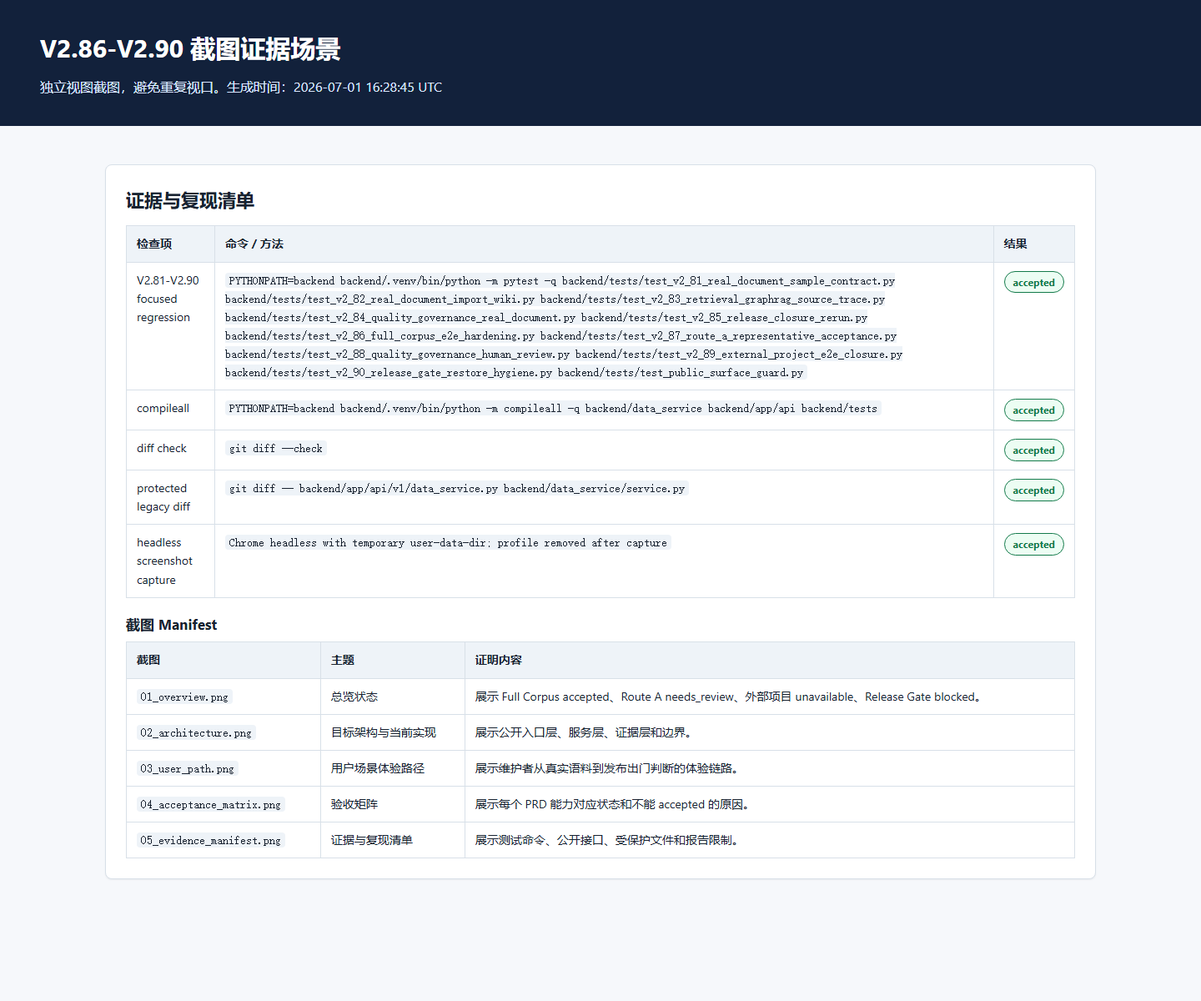
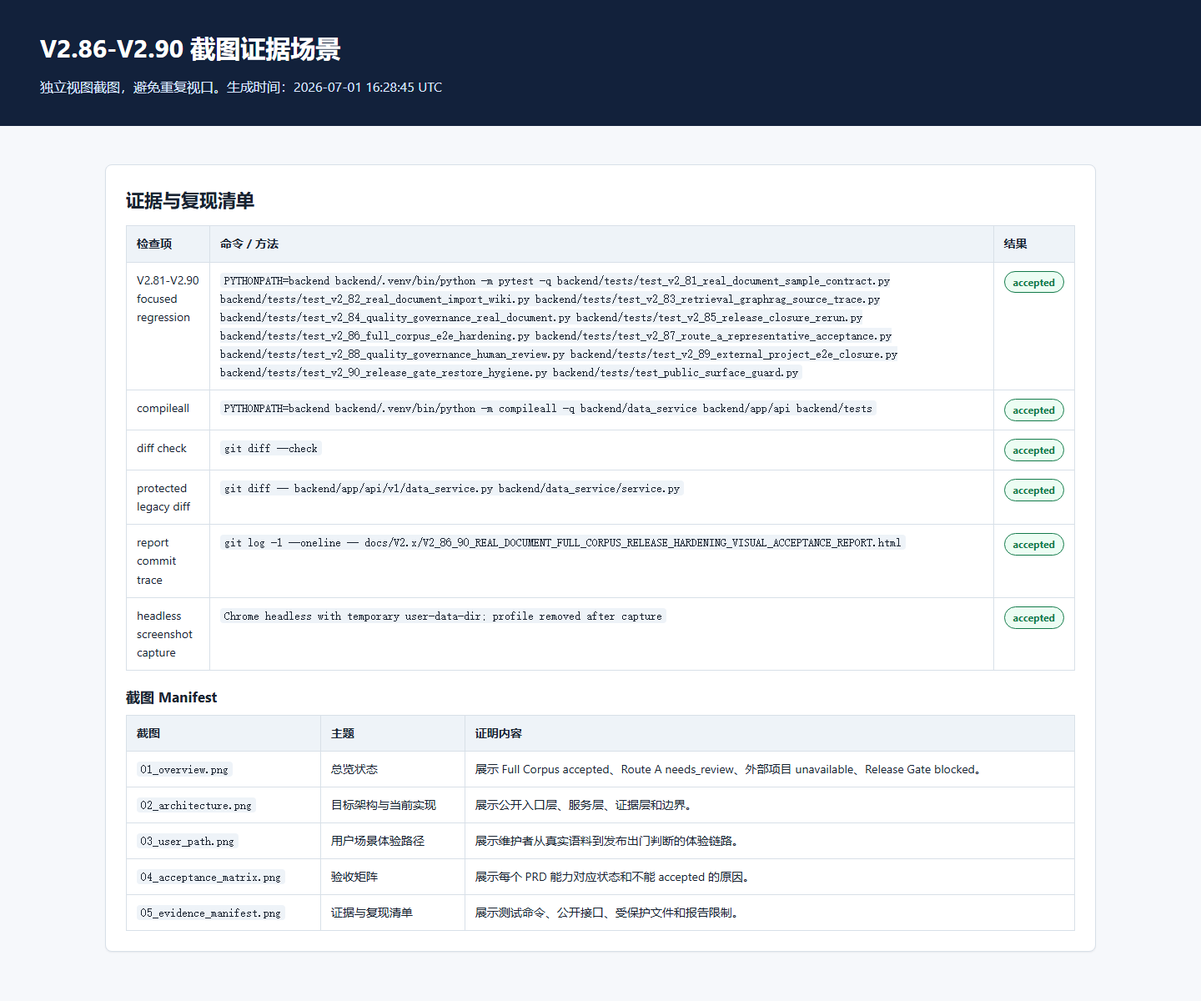
docs: make V2.86-V2.90 audit git evidence reproducible

diff --git a/docs/V2.x/V2_86_90_REAL_DOCUMENT_FULL_CORPUS_RELEASE_HARDENING_VISUAL_ACCEPTANCE_REPORT.html b/docs/V2.x/V2_86_90_REAL_DOCUMENT_FULL_CORPUS_RELEASE_HARDENING_VISUAL_ACCEPTANCE_REPORT.html
@@ -1,11 +1,11 @@
 <!doctype html><html lang="zh-CN"><head><meta charset="utf-8"><title>V2.86-V2.90 自动化开发审计报告</title><style>
 :root{--bg:#f6f8fb;--panel:#fff;--ink:#182230;--muted:#5f6f82;--line:#d8e0e8;--ok:#137a4a;--warn:#9b6a00;--blocked:#92370f;--bad:#b42318;--blue:#1e5bb8;--teal:#087b83;--purple:#6650a4;--shadow:0 1px 2px rgba(16,24,40,.06)}*{box-sizing:border-box}body{margin:0;background:var(--bg);color:var(--ink);font-family:-apple-system,BlinkMacSystemFont,"Segoe UI","Microsoft YaHei",Arial,sans-serif;line-height:1.58}header{background:#12213b;color:#fff;padding:34px 48px}header h1{margin:0;font-size:30px;letter-spacing:0}header p{margin:10px 0 0;color:#d9e6ff}.wrap{max-width:1240px;margin:0 auto;padding:26px}.section{background:var(--panel);border:1px solid var(--line);border-radius:8px;padding:24px;margin:20px 0;box-shadow:var(--shadow)}h2{font-size:22px;margin:0 0 14px}h3{font-size:17px;margin:18px 0 8px}.grid{display:grid;grid-template-columns:repeat(4,1fr);gap:14px}.card{border:1px solid var(--line);border-radius:8px;padding:16px;background:#fff}.metric{font-size:30px;font-weight:780}.okText{color:var(--ok)}.warnText{color:var(--warn)}.blockedText{color:var(--blocked)}.badge{display:inline-block;border:1px solid currentColor;border-radius:999px;padding:3px 10px;font-size:12px;font-weight:750}.ok{color:var(--ok);background:#ecfdf3}.warn{color:var(--warn);background:#fff8df}.blocked{color:var(--blocked);background:#fff1e8}.bad{color:var(--bad);background:#fef3f2}table{border-collapse:collapse;width:100%;font-size:14px}th,td{border:1px solid var(--line);padding:10px 12px;text-align:left;vertical-align:top}th{background:#eef3f8}.layers{display:grid;grid-template-columns:1fr 1fr 1fr;gap:14px}.layer{border:1px solid var(--line);border-left:6px solid var(--blue);border-radius:8px;padding:16px;background:#fbfdff}.layer:nth-child(2){border-left-color:var(--teal)}.layer:nth-child(3){border-left-color:var(--purple)}.flow{display:grid;grid-template-columns:repeat(5,1fr);gap:12px}.node{border:2px solid var(--line);border-radius:8px;padding:14px;min-height:122px;background:#fff}.node.done{border-color:var(--ok)}.node.pending{border-color:var(--warn)}.node.blocked{border-color:var(--blocked)}.screens{display:grid;grid-template-columns:repeat(2,1fr);gap:16px}.screens img{width:100%;border:1px solid var(--line);border-radius:8px;background:#fff}.note{background:#fff8e6;border:1px solid #f1ce75;border-radius:8px;padding:14px}.audit-pass{background:#eafaf1;border:1px solid #a6d7bb;border-radius:8px;padding:14px}.audit-fail{background:#fff1e8;border:1px solid #f5b28b;border-radius:8px;padding:14px}code{background:#eef3f8;border-radius:4px;padding:2px 5px}.small{font-size:13px;color:var(--muted)}ul{margin:8px 0 0;padding-left:20px}@media(max-width:920px){.grid,.layers,.flow,.screens{grid-template-columns:1fr}.wrap{padding:16px}header{padding:24px}}
 </style></head><body><header><h1>V2.86-V2.90 自动化开发审计报告</h1><p>修复版：用于人类完整复核本阶段自动化开发、阶段验收、真实 E2E、可视化证据和 false-green 风险。生成时间：2026-07-01 16:28:45 UTC</p></header><main class="wrap">
-<section class="section"><h2>1. 审计总判定</h2><div class="audit-pass"><strong>自动化开发范围：通过。</strong> V2.86-V2.90 被文档完整支撑的代码实现、公开接口、focused tests、真实仓库 E2E 和可视化证据已完成。</div><p class="note"><strong>Final release：未通过出门验收。</strong> Route A 用户代表性资料、人工质量审查、外部项目路径、human approval、restore/dependency hygiene 仍缺真实证据，不能写成 accepted。</p><div class="grid"><div class="card"><h3>Commit</h3><div class="metric">ce1bd6c</div><p>https://github.com/ljx418/data_service.git</p></div><div class="card"><h3>Full Corpus</h3><div class="metric okText">879</div><p>docs/V2.x real rows, parser failures 0</p></div><div class="card"><h3>Release Gate</h3><div class="metric blockedText">structured_unavailable</div><p>阻断项保留。</p></div><div class="card"><h3>False-green</h3><div class="metric okText">PASS</div><p>未将 needs_review / unavailable 写成 accepted。</p></div></div></section>
+<section class="section"><h2>1. 审计总判定</h2><div class="audit-pass"><strong>自动化开发范围：通过。</strong> V2.86-V2.90 被文档完整支撑的代码实现、公开接口、focused tests、真实仓库 E2E 和可视化证据已完成。</div><p class="note"><strong>Final release：未通过出门验收。</strong> Route A 用户代表性资料、人工质量审查、外部项目路径、human approval、restore/dependency hygiene 仍缺真实证据，不能写成 accepted。</p><div class="grid"><div class="card"><h3>Git 证据</h3><div class="metric">origin/main</div><p>远端：<code>https://github.com/ljx418/data_service.git</code><br>复核命令：<code>git log -1 --oneline -- docs/V2.x/V2_86_90_REAL_DOCUMENT_FULL_CORPUS_RELEASE_HARDENING_VISUAL_ACCEPTANCE_REPORT.html</code></p></div><div class="card"><h3>Full Corpus</h3><div class="metric okText">879</div><p>docs/V2.x real rows, parser failures 0</p></div><div class="card"><h3>Release Gate</h3><div class="metric blockedText">structured_unavailable</div><p>阻断项保留。</p></div><div class="card"><h3>False-green</h3><div class="metric okText">PASS</div><p>未将 needs_review / unavailable 写成 accepted。</p></div></div></section>
 <section class="section"><h2>2. 原始 PRD 覆盖与功能验收</h2><p>审计依据：<code>V2_86_90_REAL_DOCUMENT_FULL_CORPUS_RELEASE_HARDENING_PRD.md</code> 与目标架构文档。以下矩阵逐项说明实现状态和不能 accepted 的真实原因。</p><table><thead><tr><th>PRD 能力</th><th>当前状态</th><th>证据 / 限制</th></tr></thead><tbody><tr><td>V2.86 Full Corpus E2E Hardening</td><td><span class="badge ok">accepted</span></td><td>真实 docs/V2.x processed_count=879，parser_failures=0</td></tr><tr><td>V2.87 Route A Representative Material Acceptance</td><td><span class="badge warn">needs_review</span></td><td>缺用户代表性真实资料和人工验收证据；按 PRD 保持 needs_review</td></tr><tr><td>V2.88 Quality Governance Human Review Closure</td><td><span class="badge warn">needs_review</span></td><td>缺真实人工 quality decisions；自动建议不能替代人工审查</td></tr><tr><td>V2.89 External Project E2E Closure</td><td><span class="badge blocked">structured_unavailable</span></td><td>data_service accepted；codexPat/HarnessOS/Navia 缺路径，structured_unavailable</td></tr><tr><td>V2.90 Release Gate and Restore Hygiene</td><td><span class="badge blocked">structured_unavailable</span></td><td>Route A、quality review、external project、human approval、restore/dependency hygiene 未全部 accepted</td></tr></tbody></table></section>
 <section class="section"><h2>3. 目标架构与当前实现</h2><div class="layers"><div class="layer"><h3>公开入口层</h3><ul><li>MCP build/read：10 个工具，全部有 schema。</li><li>HTTP build/read：10 个 route 已注册。</li><li>CLI：<code>real-document-full-corpus-release</code> 已进入 parser inventory。</li></ul></div><div class="layer"><h3>服务实现层</h3><ul><li>Full Corpus E2E Runner</li><li>Route A Acceptance Pack</li><li>Quality Review Recorder</li><li>External Project Closure</li><li>Release Gate Aggregator</li></ul></div><div class="layer"><h3>证据与边界</h3><ul><li>使用 repo-relative refs 和 artifact refs。</li><li>保留 needs_review / structured_unavailable。</li><li>不声明 full call graph、runtime topology、data/control flow、type inference 或完整设计意图恢复。</li></ul></div></div><h3>代码实体审计</h3><table><thead><tr><th>目标实体</th><th>实现落点</th><th>状态</th></tr></thead><tbody><tr><td>Full Corpus E2E Runner</td><td><code>backend/data_service/code_assets/real_document_full_corpus_release/full_corpus.py</code></td><td><span class="badge ok">accepted</span></td></tr><tr><td>Route A Acceptance Pack</td><td><code>backend/data_service/code_assets/real_document_full_corpus_release/route_a_acceptance.py</code></td><td><span class="badge warn">needs_review</span></td></tr><tr><td>Quality Review Recorder</td><td><code>backend/data_service/code_assets/real_document_full_corpus_release/quality_review.py</code></td><td><span class="badge warn">needs_review</span></td></tr><tr><td>External Project Closure</td><td><code>backend/data_service/code_assets/real_document_full_corpus_release/external_project_closure.py</code></td><td><span class="badge blocked">structured_unavailable</span></td></tr><tr><td>Release Gate Aggregator</td><td><code>backend/data_service/code_assets/real_document_full_corpus_release/release_gate.py</code></td><td><span class="badge blocked">structured_unavailable</span></td></tr></tbody></table></section>
 <section class="section"><h2>4. 公开接口审计</h2><h3>MCP tools</h3><table><thead><tr><th>工具</th><th>schema</th></tr></thead><tbody><tr><td><code>knowledge_code_real_document_full_corpus_release_external_project_build</code></td><td>schema registered</td></tr><tr><td><code>knowledge_code_real_document_full_corpus_release_external_project_read</code></td><td>schema registered</td></tr><tr><td><code>knowledge_code_real_document_full_corpus_release_full_corpus_build</code></td><td>schema registered</td></tr><tr><td><code>knowledge_code_real_document_full_corpus_release_full_corpus_read</code></td><td>schema registered</td></tr><tr><td><code>knowledge_code_real_document_full_corpus_release_quality_review_build</code></td><td>schema registered</td></tr><tr><td><code>knowledge_code_real_document_full_corpus_release_quality_review_read</code></td><td>schema registered</td></tr><tr><td><code>knowledge_code_real_document_full_corpus_release_release_gate_build</code></td><td>schema registered</td></tr><tr><td><code>knowledge_code_real_document_full_corpus_release_release_gate_read</code></td><td>schema registered</td></tr><tr><td><code>knowledge_code_real_document_full_corpus_release_route_a_build</code></td><td>schema registered</td></tr><tr><td><code>knowledge_code_real_document_full_corpus_release_route_a_read</code></td><td>schema registered</td></tr></tbody></table><h3>HTTP routes</h3><table><thead><tr><th>方法</th><th>路径</th></tr></thead><tbody><tr><td>GET</td><td><code>/api/workspaces/{workspace_id}/codebases/{codebase_id}/real-document-full-corpus-release/external-project</code></td></tr><tr><td>GET</td><td><code>/api/workspaces/{workspace_id}/codebases/{codebase_id}/real-document-full-corpus-release/full-corpus</code></td></tr><tr><td>GET</td><td><code>/api/workspaces/{workspace_id}/codebases/{codebase_id}/real-document-full-corpus-release/quality-review</code></td></tr><tr><td>GET</td><td><code>/api/workspaces/{workspace_id}/codebases/{codebase_id}/real-document-full-corpus-release/release-gate</code></td></tr><tr><td>GET</td><td><code>/api/workspaces/{workspace_id}/codebases/{codebase_id}/real-document-full-corpus-release/route-a</code></td></tr><tr><td>POST</td><td><code>/api/workspaces/{workspace_id}/codebases/{codebase_id}/real-document-full-corpus-release/external-project/build</code></td></tr><tr><td>POST</td><td><code>/api/workspaces/{workspace_id}/codebases/{codebase_id}/real-document-full-corpus-release/full-corpus/build</code></td></tr><tr><td>POST</td><td><code>/api/workspaces/{workspace_id}/codebases/{codebase_id}/real-document-full-corpus-release/quality-review/build</code></td></tr><tr><td>POST</td><td><code>/api/workspaces/{workspace_id}/codebases/{codebase_id}/real-document-full-corpus-release/release-gate/build</code></td></tr><tr><td>POST</td><td><code>/api/workspaces/{workspace_id}/codebases/{codebase_id}/real-document-full-corpus-release/route-a/build</code></td></tr></tbody></table></section>
-<section class="section"><h2>5. 自动化命令与复现证据</h2><table><thead><tr><th>检查项</th><th>命令 / 方法</th><th>结果</th></tr></thead><tbody><tr><td>V2.81-V2.90 focused regression</td><td><code>PYTHONPATH=backend backend/.venv/bin/python -m pytest -q backend/tests/test_v2_81_real_document_sample_contract.py backend/tests/test_v2_82_real_document_import_wiki.py backend/tests/test_v2_83_retrieval_graphrag_source_trace.py backend/tests/test_v2_84_quality_governance_real_document.py backend/tests/test_v2_85_release_closure_rerun.py backend/tests/test_v2_86_full_corpus_e2e_hardening.py backend/tests/test_v2_87_route_a_representative_acceptance.py backend/tests/test_v2_88_quality_governance_human_review.py backend/tests/test_v2_89_external_project_e2e_closure.py backend/tests/test_v2_90_release_gate_restore_hygiene.py backend/tests/test_public_surface_guard.py</code></td><td><span class="badge ok">accepted</span></td></tr><tr><td>compileall</td><td><code>PYTHONPATH=backend backend/.venv/bin/python -m compileall -q backend/data_service backend/app/api backend/tests</code></td><td><span class="badge ok">accepted</span></td></tr><tr><td>diff check</td><td><code>git diff --check</code></td><td><span class="badge ok">accepted</span></td></tr><tr><td>protected legacy diff</td><td><code>git diff -- backend/app/api/v1/data_service.py backend/data_service/service.py</code></td><td><span class="badge ok">accepted</span></td></tr><tr><td>headless screenshot capture</td><td><code>Chrome headless with temporary user-data-dir; profile removed after capture</code></td><td><span class="badge ok">accepted</span></td></tr></tbody></table><p class="small">受保护 legacy 文件 <code>backend/app/api/v1/data_service.py</code> 与 <code>backend/data_service/service.py</code> 无 diff。</p></section>
+<section class="section"><h2>5. 自动化命令与复现证据</h2><table><thead><tr><th>检查项</th><th>命令 / 方法</th><th>结果</th></tr></thead><tbody><tr><td>V2.81-V2.90 focused regression</td><td><code>PYTHONPATH=backend backend/.venv/bin/python -m pytest -q backend/tests/test_v2_81_real_document_sample_contract.py backend/tests/test_v2_82_real_document_import_wiki.py backend/tests/test_v2_83_retrieval_graphrag_source_trace.py backend/tests/test_v2_84_quality_governance_real_document.py backend/tests/test_v2_85_release_closure_rerun.py backend/tests/test_v2_86_full_corpus_e2e_hardening.py backend/tests/test_v2_87_route_a_representative_acceptance.py backend/tests/test_v2_88_quality_governance_human_review.py backend/tests/test_v2_89_external_project_e2e_closure.py backend/tests/test_v2_90_release_gate_restore_hygiene.py backend/tests/test_public_surface_guard.py</code></td><td><span class="badge ok">accepted</span></td></tr><tr><td>compileall</td><td><code>PYTHONPATH=backend backend/.venv/bin/python -m compileall -q backend/data_service backend/app/api backend/tests</code></td><td><span class="badge ok">accepted</span></td></tr><tr><td>diff check</td><td><code>git diff --check</code></td><td><span class="badge ok">accepted</span></td></tr><tr><td>protected legacy diff</td><td><code>git diff -- backend/app/api/v1/data_service.py backend/data_service/service.py</code></td><td><span class="badge ok">accepted</span></td></tr><tr><td>report commit trace</td><td><code>git log -1 --oneline -- docs/V2.x/V2_86_90_REAL_DOCUMENT_FULL_CORPUS_RELEASE_HARDENING_VISUAL_ACCEPTANCE_REPORT.html</code></td><td><span class="badge ok">accepted</span></td></tr><tr><td>headless screenshot capture</td><td><code>Chrome headless with temporary user-data-dir; profile removed after capture</code></td><td><span class="badge ok">accepted</span></td></tr></tbody></table><p class="small">受保护 legacy 文件 <code>backend/app/api/v1/data_service.py</code> 与 <code>backend/data_service/service.py</code> 无 diff。</p></section>
 <section class="section"><h2>6. 外部项目与 Release Gate 阻断项</h2><h3>外部项目</h3><table><thead><tr><th>项目</th><th>状态</th><th>执行</th></tr></thead><tbody><tr><td>data_service</td><td><span class="badge ok">accepted</span></td><td>focused real E2E smoke</td></tr><tr><td>codexPat</td><td><span class="badge blocked">structured_unavailable</span></td><td>not-run</td></tr><tr><td>HarnessOS</td><td><span class="badge blocked">structured_unavailable</span></td><td>not-run</td></tr><tr><td>Navia</td><td><span class="badge blocked">structured_unavailable</span></td><td>not-run</td></tr></tbody></table><h3>Release Gate</h3><table><thead><tr><th>检查项</th><th>状态</th><th>阻断原因</th></tr></thead><tbody><tr><td>route_a</td><td><span class="badge warn">needs_review</span></td><td>Route A user representative real materials or manual acceptance evidence are not complete</td></tr><tr><td>route_b</td><td><span class="badge ok">accepted</span></td><td>证据完整或无阻断</td></tr><tr><td>full_corpus</td><td><span class="badge ok">accepted</span></td><td>证据完整或无阻断</td></tr><tr><td>quality_review</td><td><span class="badge warn">needs_review</span></td><td>human decision is required for quality recommendation; human decision is required for quality recommendation</td></tr><tr><td>external_project</td><td><span class="badge blocked">structured_unavailable</span></td><td>codexPat real readable path is not provided; HarnessOS real readable path is not provided; Navia real readable path is not provided</td></tr><tr><td>human_approval</td><td><span class="badge warn">needs_review</span></td><td>human_approval is not accepted</td></tr><tr><td>restore_smoke</td><td><span class="badge warn">needs_review</span></td><td>restore_smoke is not accepted</td></tr><tr><td>dependency_hygiene</td><td><span class="badge warn">needs_review</span></td><td>dependency_hygiene is not accepted</td></tr></tbody></table></section>
 <section class="section"><h2>7. 文档一致性与修复说明</h2><ul><li>本报告修复了旧报告可审计性不足的问题：加入 PRD 覆盖、代码实体、公开接口、命令复现、阻断项和截图 manifest。</li><li>本轮真实 E2E 重新执行后 full corpus 数量为 <strong>879</strong>，当前报告以本轮重新验收结果为准，避免沿用早期运行值。</li><li>V2.89 payload 字段经真实检查为 <code>project_e2e_records.records</code>，报告不再使用错误字段名。</li><li>所有 non-accepted 状态在报告和 release gate 中保留，未美化为 accepted。</li><li>文档描述 / documentation claim 不当作 code fact；报告不声明 full call graph、runtime topology、data/control flow、type inference 或完整设计意图恢复。</li></ul></section>
 <section class="section"><h2>8. 截图证据 Manifest</h2><table><thead><tr><th>截图</th><th>主题</th><th>证明内容</th></tr></thead><tbody><tr><td><code>01_overview.png</code></td><td>总览状态</td><td>展示 Full Corpus accepted、Route A needs_review、外部项目 unavailable、Release Gate blocked。</td></tr><tr><td><code>02_architecture.png</code></td><td>目标架构与当前实现</td><td>展示公开入口层、服务层、证据层和边界。</td></tr><tr><td><code>03_user_path.png</code></td><td>用户场景体验路径</td><td>展示维护者从真实语料到发布出门判断的体验链路。</td></tr><tr><td><code>04_acceptance_matrix.png</code></td><td>验收矩阵</td><td>展示每个 PRD 能力对应状态和不能 accepted 的原因。</td></tr><tr><td><code>05_evidence_manifest.png</code></td><td>证据与复现清单</td><td>展示测试命令、公开接口、受保护文件和报告限制。</td></tr></tbody></table><div class="screens"><figure><img src="visual_acceptance_assets/v2_86_90/01_overview.png"><figcaption>总览状态 - 展示 Full Corpus accepted、Route A needs_review、外部项目 unavailable、Release Gate blocked。</figcaption></figure><figure><img src="visual_acceptance_assets/v2_86_90/02_architecture.png"><figcaption>目标架构与当前实现 - 展示公开入口层、服务层、证据层和边界。</figcaption></figure><figure><img src="visual_acceptance_assets/v2_86_90/03_user_path.png"><figcaption>用户场景体验路径 - 展示维护者从真实语料到发布出门判断的体验链路。</figcaption></figure><figure><img src="visual_acceptance_assets/v2_86_90/04_acceptance_matrix.png"><figcaption>验收矩阵 - 展示每个 PRD 能力对应状态和不能 accepted 的原因。</figcaption></figure><figure><img src="visual_acceptance_assets/v2_86_90/05_evidence_manifest.png"><figcaption>证据与复现清单 - 展示测试命令、公开接口、受保护文件和报告限制。</figcaption></figure></div></section>

diff --git a/docs/V2.x/visual_acceptance_assets/v2_86_90/scenario_capture.html b/docs/V2.x/visual_acceptance_assets/v2_86_90/scenario_capture.html
@@ -1,3 +1,3 @@
 <!doctype html><html lang="zh-CN"><head><meta charset="utf-8"><title>V2.86-V2.90 截图场景</title><style>
 :root{--bg:#f6f8fb;--panel:#fff;--ink:#182230;--muted:#5f6f82;--line:#d8e0e8;--ok:#137a4a;--warn:#9b6a00;--blocked:#92370f;--bad:#b42318;--blue:#1e5bb8;--teal:#087b83;--purple:#6650a4;--shadow:0 1px 2px rgba(16,24,40,.06)}*{box-sizing:border-box}body{margin:0;background:var(--bg);color:var(--ink);font-family:-apple-system,BlinkMacSystemFont,"Segoe UI","Microsoft YaHei",Arial,sans-serif;line-height:1.58}header{background:#12213b;color:#fff;padding:34px 48px}header h1{margin:0;font-size:30px;letter-spacing:0}header p{margin:10px 0 0;color:#d9e6ff}.wrap{max-width:1240px;margin:0 auto;padding:26px}.section{background:var(--panel);border:1px solid var(--line);border-radius:8px;padding:24px;margin:20px 0;box-shadow:var(--shadow)}h2{font-size:22px;margin:0 0 14px}h3{font-size:17px;margin:18px 0 8px}.grid{display:grid;grid-template-columns:repeat(4,1fr);gap:14px}.card{border:1px solid var(--line);border-radius:8px;padding:16px;background:#fff}.metric{font-size:30px;font-weight:780}.okText{color:var(--ok)}.warnText{color:var(--warn)}.blockedText{color:var(--blocked)}.badge{display:inline-block;border:1px solid currentColor;border-radius:999px;padding:3px 10px;font-size:12px;font-weight:750}.ok{color:var(--ok);background:#ecfdf3}.warn{color:var(--warn);background:#fff8df}.blocked{color:var(--blocked);background:#fff1e8}.bad{color:var(--bad);background:#fef3f2}table{border-collapse:collapse;width:100%;font-size:14px}th,td{border:1px solid var(--line);padding:10px 12px;text-align:left;vertical-align:top}th{background:#eef3f8}.layers{display:grid;grid-template-columns:1fr 1fr 1fr;gap:14px}.layer{border:1px solid var(--line);border-left:6px solid var(--blue);border-radius:8px;padding:16px;background:#fbfdff}.layer:nth-child(2){border-left-color:var(--teal)}.layer:nth-child(3){border-left-color:var(--purple)}.flow{display:grid;grid-template-columns:repeat(5,1fr);gap:12px}.node{border:2px solid var(--line);border-radius:8px;padding:14px;min-height:122px;background:#fff}.node.done{border-color:var(--ok)}.node.pending{border-color:var(--warn)}.node.blocked{border-color:var(--blocked)}.screens{display:grid;grid-template-columns:repeat(2,1fr);gap:16px}.screens img{width:100%;border:1px solid var(--line);border-radius:8px;background:#fff}.note{background:#fff8e6;border:1px solid #f1ce75;border-radius:8px;padding:14px}.audit-pass{background:#eafaf1;border:1px solid #a6d7bb;border-radius:8px;padding:14px}.audit-fail{background:#fff1e8;border:1px solid #f5b28b;border-radius:8px;padding:14px}code{background:#eef3f8;border-radius:4px;padding:2px 5px}.small{font-size:13px;color:var(--muted)}ul{margin:8px 0 0;padding-left:20px}@media(max-width:920px){.grid,.layers,.flow,.screens{grid-template-columns:1fr}.wrap{padding:16px}header{padding:24px}}
-</style></head><body><header><h1>V2.86-V2.90 截图证据场景</h1><p>独立视图截图，避免重复视口。生成时间：2026-07-01 16:28:45 UTC</p></header><main class="wrap"><div id="content"></div></main><script>const views={"overview": "<section class=\"section\"><h2>总览状态</h2><div class=\"grid\"><div class=\"card\"><h3>Full Corpus</h3><div class=\"metric okText\">879</div><p>真实 docs/V2.x 行，accepted。</p></div><div class=\"card\"><h3>Route A</h3><div class=\"metric warnText\">needs_review</div><p>缺用户代表性真实资料和人工验收证据。</p></div><div class=\"card\"><h3>External Projects</h3><div class=\"metric blockedText\">3 unavailable</div><p>codexPat、HarnessOS、Navia 缺路径。</p></div><div class=\"card\"><h3>Release Gate</h3><div class=\"metric blockedText\">blocked</div><p>final release 未 accepted。</p></div></div></section>", "architecture": "<section class=\"section\"><h2>目标架构与当前实现</h2><div class=\"layers\"><div class=\"layer\"><h3>公开入口层</h3><ul><li>MCP：10 个工具</li><li>HTTP：10 个 route</li><li>CLI：real-document-full-corpus-release</li></ul></div><div class=\"layer\"><h3>服务实现层</h3><ul><li>Full Corpus E2E Runner</li><li>Route A Acceptance Pack</li><li>Quality Review Recorder</li><li>External Project Closure</li><li>Release Gate Aggregator</li></ul></div><div class=\"layer\"><h3>边界</h3><ul><li>保留 needs_review / structured_unavailable</li><li>不声明 full call graph/runtime topology/type inference</li><li>documentation claim 不当作 code fact</li></ul></div></div><table><thead><tr><th>实体</th><th>状态</th></tr></thead><tbody><tr><td>Full Corpus E2E Runner</td><td><span class=\"badge ok\">accepted</span></td></tr><tr><td>Route A Acceptance Pack</td><td><span class=\"badge warn\">needs_review</span></td></tr><tr><td>Quality Review Recorder</td><td><span class=\"badge warn\">needs_review</span></td></tr><tr><td>External Project Closure</td><td><span class=\"badge blocked\">structured_unavailable</span></td></tr><tr><td>Release Gate Aggregator</td><td><span class=\"badge blocked\">structured_unavailable</span></td></tr></tbody></table></section>", "user_path": "<section class=\"section\"><h2>用户场景体验路径</h2><div class=\"flow\"><div class=\"node done\"><strong>1. 选择真实语料</strong><br>读取当前仓库 docs/V2.x。</div><div class=\"node done\"><strong>2. 全量构建</strong><br>处理 879 行，parser failure 0。</div><div class=\"node pending\"><strong>3. Route A</strong><br>缺代表性资料，needs_review。</div><div class=\"node pending\"><strong>4. 人工质量复核</strong><br>缺 human decisions。</div><div class=\"node blocked\"><strong>5. 发布出门</strong><br>外部项目和 human approval 阻断。</div></div></section>", "acceptance": "<section class=\"section\"><h2>验收矩阵</h2><table><thead><tr><th>PRD 能力</th><th>状态</th><th>证据 / 限制</th></tr></thead><tbody><tr><td>V2.86 Full Corpus E2E Hardening</td><td><span class=\"badge ok\">accepted</span></td><td>真实 docs/V2.x processed_count=879，parser_failures=0</td></tr><tr><td>V2.87 Route A Representative Material Acceptance</td><td><span class=\"badge warn\">needs_review</span></td><td>缺用户代表性真实资料和人工验收证据；按 PRD 保持 needs_review</td></tr><tr><td>V2.88 Quality Governance Human Review Closure</td><td><span class=\"badge warn\">needs_review</span></td><td>缺真实人工 quality decisions；自动建议不能替代人工审查</td></tr><tr><td>V2.89 External Project E2E Closure</td><td><span class=\"badge blocked\">structured_unavailable</span></td><td>data_service accepted；codexPat/HarnessOS/Navia 缺路径，structured_unavailable</td></tr><tr><td>V2.90 Release Gate and Restore Hygiene</td><td><span class=\"badge blocked\">structured_unavailable</span></td><td>Route A、quality review、external project、human approval、restore/dependency hygiene 未全部 accepted</td></tr></tbody></table></section>", "evidence": "<section class=\"section\"><h2>证据与复现清单</h2><table><thead><tr><th>检查项</th><th>命令 / 方法</th><th>结果</th></tr></thead><tbody><tr><td>V2.81-V2.90 focused regression</td><td><code>PYTHONPATH=backend backend/.venv/bin/python -m pytest -q backend/tests/test_v2_81_real_document_sample_contract.py backend/tests/test_v2_82_real_document_import_wiki.py backend/tests/test_v2_83_retrieval_graphrag_source_trace.py backend/tests/test_v2_84_quality_governance_real_document.py backend/tests/test_v2_85_release_closure_rerun.py backend/tests/test_v2_86_full_corpus_e2e_hardening.py backend/tests/test_v2_87_route_a_representative_acceptance.py backend/tests/test_v2_88_quality_governance_human_review.py backend/tests/test_v2_89_external_project_e2e_closure.py backend/tests/test_v2_90_release_gate_restore_hygiene.py backend/tests/test_public_surface_guard.py</code></td><td><span class=\"badge ok\">accepted</span></td></tr><tr><td>compileall</td><td><code>PYTHONPATH=backend backend/.venv/bin/python -m compileall -q backend/data_service backend/app/api backend/tests</code></td><td><span class=\"badge ok\">accepted</span></td></tr><tr><td>diff check</td><td><code>git diff --check</code></td><td><span class=\"badge ok\">accepted</span></td></tr><tr><td>protected legacy diff</td><td><code>git diff -- backend/app/api/v1/data_service.py backend/data_service/service.py</code></td><td><span class=\"badge ok\">accepted</span></td></tr><tr><td>headless screenshot capture</td><td><code>Chrome headless with temporary user-data-dir; profile removed after capture</code></td><td><span class=\"badge ok\">accepted</span></td></tr></tbody></table><h3>截图 Manifest</h3><table><thead><tr><th>截图</th><th>主题</th><th>证明内容</th></tr></thead><tbody><tr><td><code>01_overview.png</code></td><td>总览状态</td><td>展示 Full Corpus accepted、Route A needs_review、外部项目 unavailable、Release Gate blocked。</td></tr><tr><td><code>02_architecture.png</code></td><td>目标架构与当前实现</td><td>展示公开入口层、服务层、证据层和边界。</td></tr><tr><td><code>03_user_path.png</code></td><td>用户场景体验路径</td><td>展示维护者从真实语料到发布出门判断的体验链路。</td></tr><tr><td><code>04_acceptance_matrix.png</code></td><td>验收矩阵</td><td>展示每个 PRD 能力对应状态和不能 accepted 的原因。</td></tr><tr><td><code>05_evidence_manifest.png</code></td><td>证据与复现清单</td><td>展示测试命令、公开接口、受保护文件和报告限制。</td></tr></tbody></table></section>"};const params=new URLSearchParams(location.search);const key=params.get('view')||'overview';document.getElementById('content').innerHTML=views[key]||views.overview;</script></body></html>
+</style></head><body><header><h1>V2.86-V2.90 截图证据场景</h1><p>独立视图截图，避免重复视口。生成时间：2026-07-01 16:28:45 UTC</p></header><main class="wrap"><div id="content"></div></main><script>const views={"overview": "<section class=\"section\"><h2>总览状态</h2><div class=\"grid\"><div class=\"card\"><h3>Full Corpus</h3><div class=\"metric okText\">879</div><p>真实 docs/V2.x 行，accepted。</p></div><div class=\"card\"><h3>Route A</h3><div class=\"metric warnText\">needs_review</div><p>缺用户代表性真实资料和人工验收证据。</p></div><div class=\"card\"><h3>External Projects</h3><div class=\"metric blockedText\">3 unavailable</div><p>codexPat、HarnessOS、Navia 缺路径。</p></div><div class=\"card\"><h3>Release Gate</h3><div class=\"metric blockedText\">blocked</div><p>final release 未 accepted。</p></div></div></section>", "architecture": "<section class=\"section\"><h2>目标架构与当前实现</h2><div class=\"layers\"><div class=\"layer\"><h3>公开入口层</h3><ul><li>MCP：10 个工具</li><li>HTTP：10 个 route</li><li>CLI：real-document-full-corpus-release</li></ul></div><div class=\"layer\"><h3>服务实现层</h3><ul><li>Full Corpus E2E Runner</li><li>Route A Acceptance Pack</li><li>Quality Review Recorder</li><li>External Project Closure</li><li>Release Gate Aggregator</li></ul></div><div class=\"layer\"><h3>边界</h3><ul><li>保留 needs_review / structured_unavailable</li><li>不声明 full call graph/runtime topology/type inference</li><li>documentation claim 不当作 code fact</li></ul></div></div><table><thead><tr><th>实体</th><th>状态</th></tr></thead><tbody><tr><td>Full Corpus E2E Runner</td><td><span class=\"badge ok\">accepted</span></td></tr><tr><td>Route A Acceptance Pack</td><td><span class=\"badge warn\">needs_review</span></td></tr><tr><td>Quality Review Recorder</td><td><span class=\"badge warn\">needs_review</span></td></tr><tr><td>External Project Closure</td><td><span class=\"badge blocked\">structured_unavailable</span></td></tr><tr><td>Release Gate Aggregator</td><td><span class=\"badge blocked\">structured_unavailable</span></td></tr></tbody></table></section>", "user_path": "<section class=\"section\"><h2>用户场景体验路径</h2><div class=\"flow\"><div class=\"node done\"><strong>1. 选择真实语料</strong><br>读取当前仓库 docs/V2.x。</div><div class=\"node done\"><strong>2. 全量构建</strong><br>处理 879 行，parser failure 0。</div><div class=\"node pending\"><strong>3. Route A</strong><br>缺代表性资料，needs_review。</div><div class=\"node pending\"><strong>4. 人工质量复核</strong><br>缺 human decisions。</div><div class=\"node blocked\"><strong>5. 发布出门</strong><br>外部项目和 human approval 阻断。</div></div></section>", "acceptance": "<section class=\"section\"><h2>验收矩阵</h2><table><thead><tr><th>PRD 能力</th><th>状态</th><th>证据 / 限制</th></tr></thead><tbody><tr><td>V2.86 Full Corpus E2E Hardening</td><td><span class=\"badge ok\">accepted</span></td><td>真实 docs/V2.x processed_count=879，parser_failures=0</td></tr><tr><td>V2.87 Route A Representative Material Acceptance</td><td><span class=\"badge warn\">needs_review</span></td><td>缺用户代表性真实资料和人工验收证据；按 PRD 保持 needs_review</td></tr><tr><td>V2.88 Quality Governance Human Review Closure</td><td><span class=\"badge warn\">needs_review</span></td><td>缺真实人工 quality decisions；自动建议不能替代人工审查</td></tr><tr><td>V2.89 External Project E2E Closure</td><td><span class=\"badge blocked\">structured_unavailable</span></td><td>data_service accepted；codexPat/HarnessOS/Navia 缺路径，structured_unavailable</td></tr><tr><td>V2.90 Release Gate and Restore Hygiene</td><td><span class=\"badge blocked\">structured_unavailable</span></td><td>Route A、quality review、external project、human approval、restore/dependency hygiene 未全部 accepted</td></tr></tbody></table></section>", "evidence": "<section class=\"section\"><h2>证据与复现清单</h2><table><thead><tr><th>检查项</th><th>命令 / 方法</th><th>结果</th></tr></thead><tbody><tr><td>V2.81-V2.90 focused regression</td><td><code>PYTHONPATH=backend backend/.venv/bin/python -m pytest -q backend/tests/test_v2_81_real_document_sample_contract.py backend/tests/test_v2_82_real_document_import_wiki.py backend/tests/test_v2_83_retrieval_graphrag_source_trace.py backend/tests/test_v2_84_quality_governance_real_document.py backend/tests/test_v2_85_release_closure_rerun.py backend/tests/test_v2_86_full_corpus_e2e_hardening.py backend/tests/test_v2_87_route_a_representative_acceptance.py backend/tests/test_v2_88_quality_governance_human_review.py backend/tests/test_v2_89_external_project_e2e_closure.py backend/tests/test_v2_90_release_gate_restore_hygiene.py backend/tests/test_public_surface_guard.py</code></td><td><span class=\"badge ok\">accepted</span></td></tr><tr><td>compileall</td><td><code>PYTHONPATH=backend backend/.venv/bin/python -m compileall -q backend/data_service backend/app/api backend/tests</code></td><td><span class=\"badge ok\">accepted</span></td></tr><tr><td>diff check</td><td><code>git diff --check</code></td><td><span class=\"badge ok\">accepted</span></td></tr><tr><td>protected legacy diff</td><td><code>git diff -- backend/app/api/v1/data_service.py backend/data_service/service.py</code></td><td><span class=\"badge ok\">accepted</span></td></tr><tr><td>report commit trace</td><td><code>git log -1 --oneline -- docs/V2.x/V2_86_90_REAL_DOCUMENT_FULL_CORPUS_RELEASE_HARDENING_VISUAL_ACCEPTANCE_REPORT.html</code></td><td><span class=\"badge ok\">accepted</span></td></tr><tr><td>headless screenshot capture</td><td><code>Chrome headless with temporary user-data-dir; profile removed after capture</code></td><td><span class=\"badge ok\">accepted</span></td></tr></tbody></table><h3>截图 Manifest</h3><table><thead><tr><th>截图</th><th>主题</th><th>证明内容</th></tr></thead><tbody><tr><td><code>01_overview.png</code></td><td>总览状态</td><td>展示 Full Corpus accepted、Route A needs_review、外部项目 unavailable、Release Gate blocked。</td></tr><tr><td><code>02_architecture.png</code></td><td>目标架构与当前实现</td><td>展示公开入口层、服务层、证据层和边界。</td></tr><tr><td><code>03_user_path.png</code></td><td>用户场景体验路径</td><td>展示维护者从真实语料到发布出门判断的体验链路。</td></tr><tr><td><code>04_acceptance_matrix.png</code></td><td>验收矩阵</td><td>展示每个 PRD 能力对应状态和不能 accepted 的原因。</td></tr><tr><td><code>05_evidence_manifest.png</code></td><td>证据与复现清单</td><td>展示测试命令、公开接口、受保护文件和报告限制。</td></tr></tbody></table></section>"};const params=new URLSearchParams(location.search);const key=params.get('view')||'overview';document.getElementById('content').innerHTML=views[key]||views.overview;</script></body></html>
